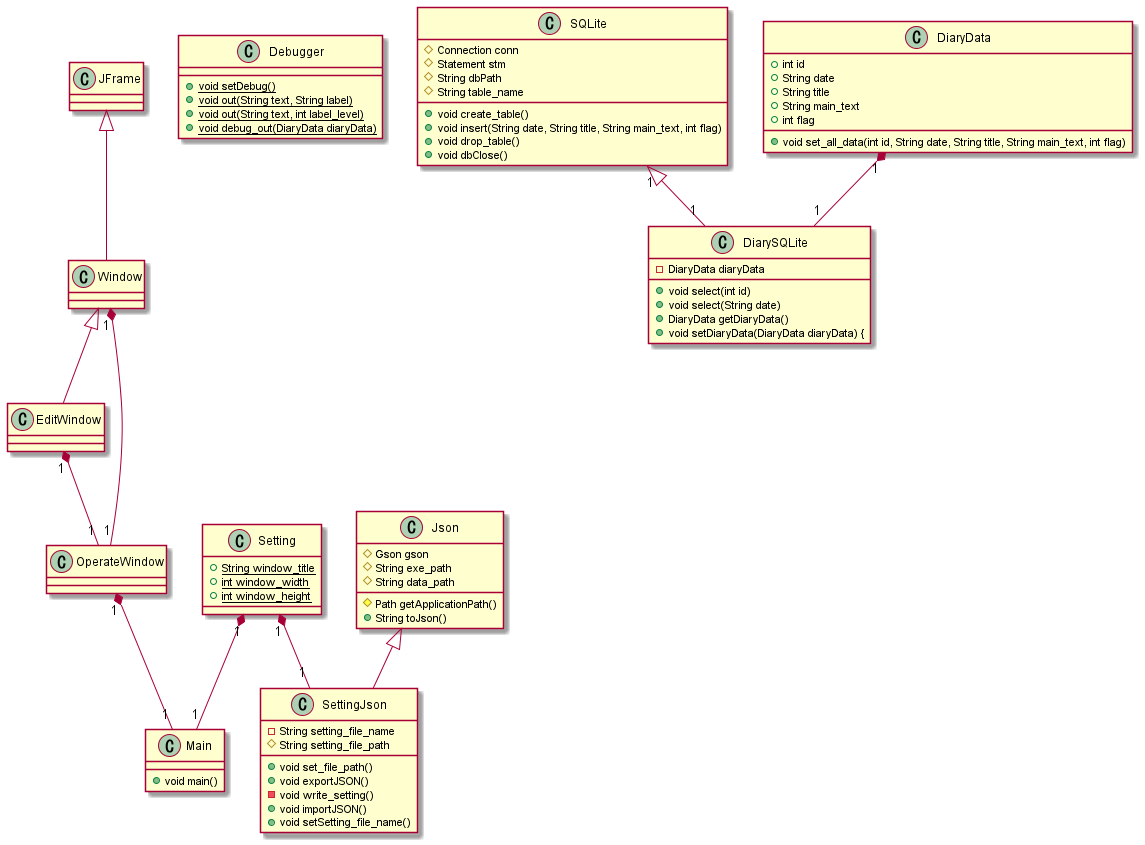
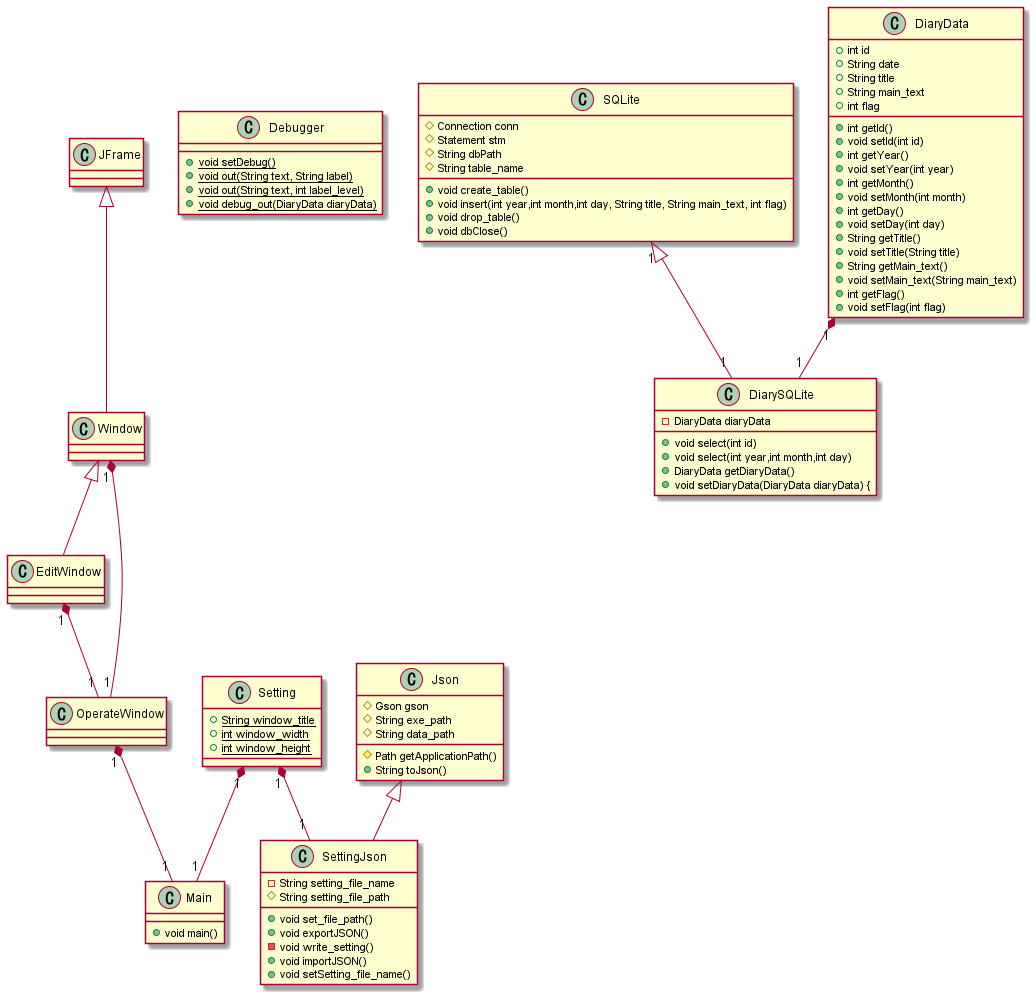
DBデータ構造の変更によりクラス図を変更

diff --git a/diary/src/DiaryData.java b/diary/src/DiaryData.java
@@ -14,18 +14,6 @@ public class DiaryData {
         this.id = -1;
     }
 
-    // public void set_all_data(int id, int year, int month, int day, String date,
-    // String title, String main_text,
-    // int flag) {
-    // this.id = id;
-    // this.year = year;
-    // this.month = month;
-    // this.day = day;
-    // this.title = title;
-    // this.main_text = main_text;
-    // this.flag = flag;
-    // }
-
     // getter and setter
     public int getId() {
         return id;
